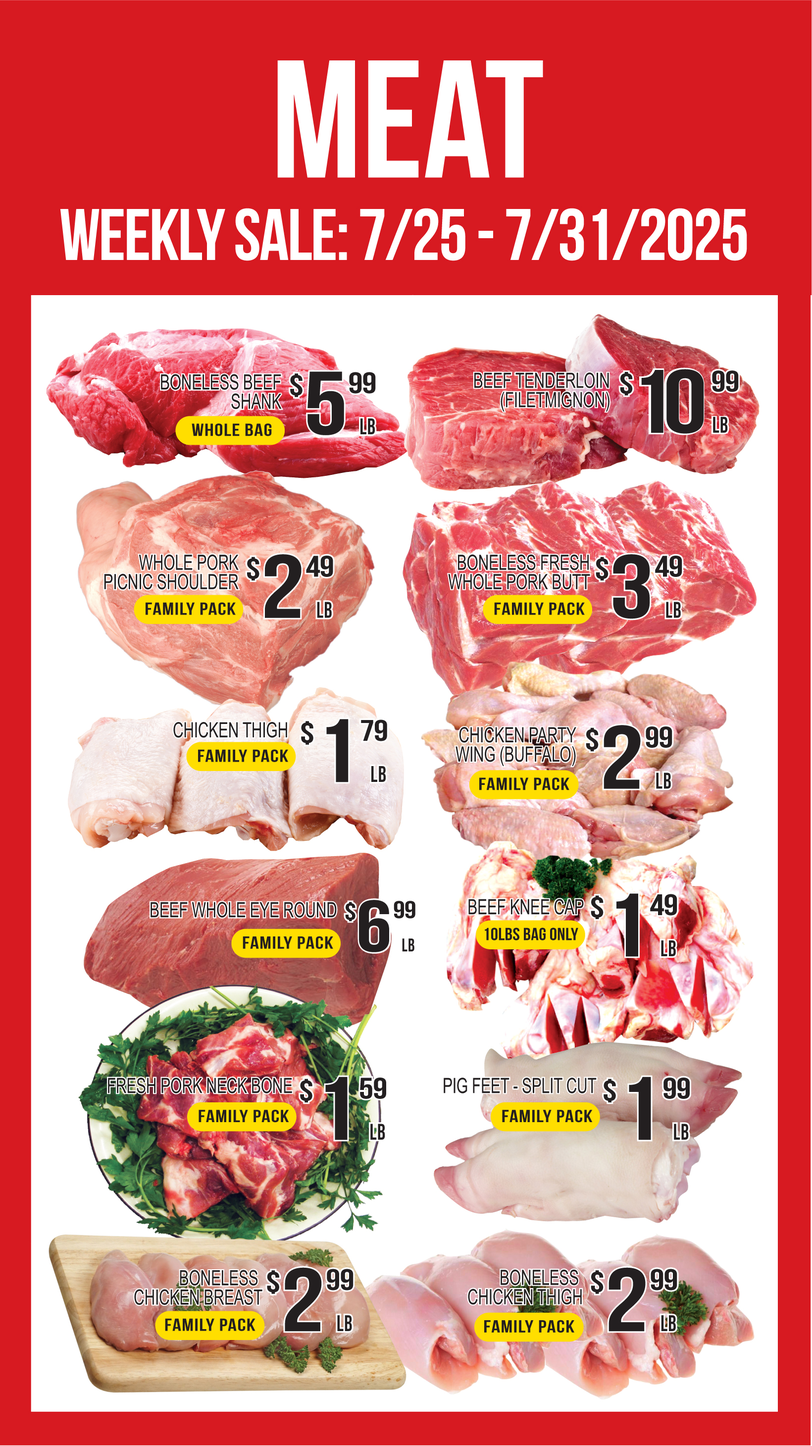
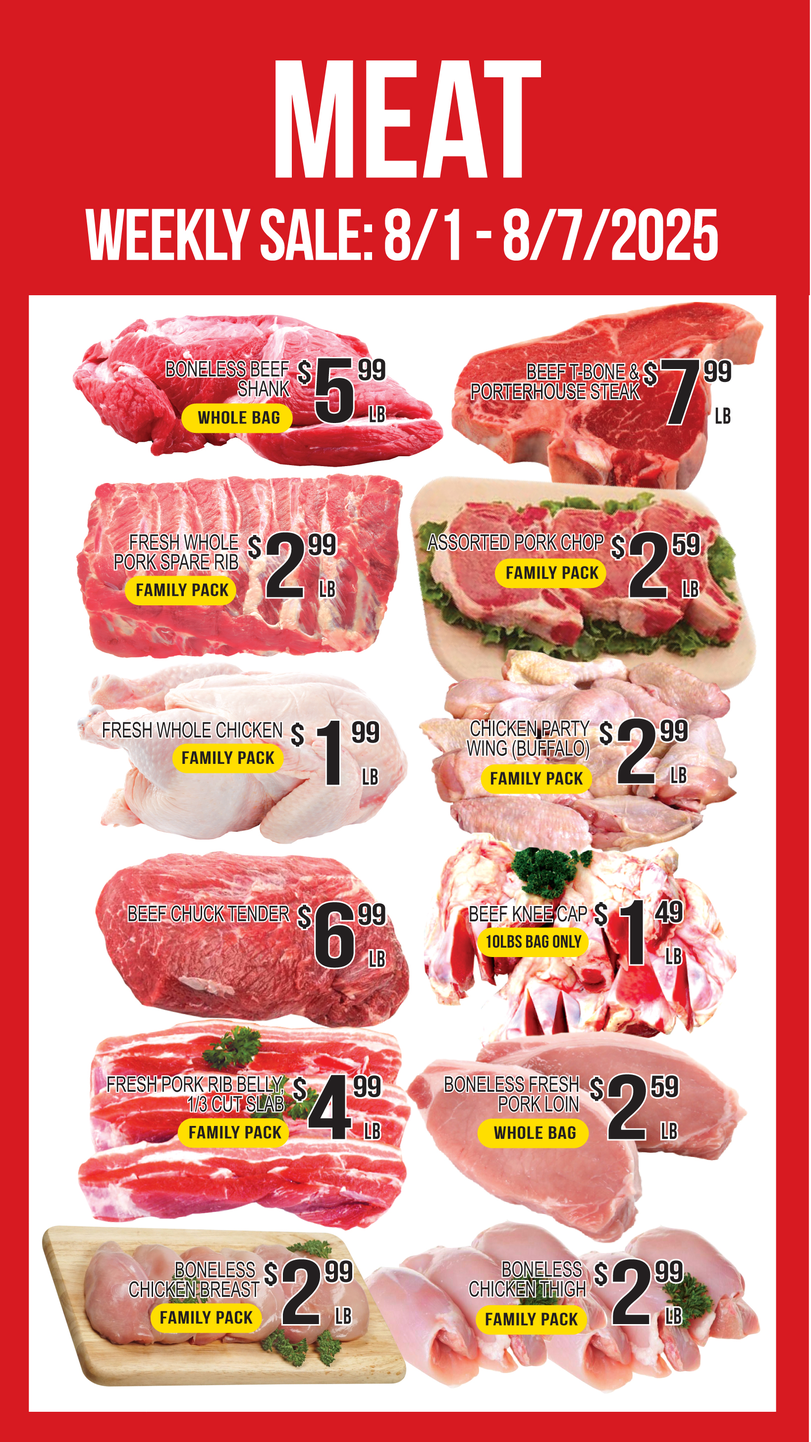
weekly

diff --git a/index.html b/index.html
@@ -67,16 +67,16 @@
           <img src="./public/assets/weekly/independence.jpg" class="img-fluid" alt="...">
         </div> -->
         <div class="carousel-item center-carousel active">
-          <img src="./public/assets/weekly/meat.jpg?v=0725" class="img-fluid" alt="...">
+          <img src="./public/assets/weekly/meat.jpg?v=00801" class="img-fluid" alt="...">
         </div>
         <div class="carousel-item center-carousel">
-          <img src="./public/assets/weekly/produce.jpg?v=0725" class="img-fluid" alt="...">
+          <img src="./public/assets/weekly/produce.jpg?v=00801" class="img-fluid" alt="...">
         </div>
         <div class="carousel-item center-carousel">
-          <img src="./public/assets/weekly/seafood.jpg?v=0725" class="img-fluid" alt="...">
+          <img src="./public/assets/weekly/seafood.jpg?v=00801" class="img-fluid" alt="...">
         </div>
         <div class="carousel-item center-carousel">
-          <img src="./public/assets/weekly/grocery.jpg?v=0725" class="img-fluid" alt="...">
+          <img src="./public/assets/weekly/grocery.jpg?v=00801" class="img-fluid" alt="...">
         </div>
         <!-- <div class="carousel-item center-carousel">
           <img src="./public/assets/sale/grocery2.jpg?v=070623" class="img-fluid" alt="...">

diff --git a/deals.html b/deals.html
@@ -50,15 +50,15 @@
     <div class="row deal">
 
       <h2>English</h2>
-      <img class="img-fluid" src="./public/assets/weekly/english.jpg?v=0725">
+      <img class="img-fluid" src="./public/assets/weekly/english.jpg?v=0801">
 
       <br><br>
       <h2>Hispanic</h2>
-      <img class="img-fluid" src="./public/assets/weekly/hispanic.jpg?v=0725">
+      <img class="img-fluid" src="./public/assets/weekly/hispanic.jpg?v=0801">
 
       <br>
       <h2>Korean</h2>
-      <img class="img-fluid" src="./public/assets/weekly/korean.jpg?v=0725">
+      <img class="img-fluid" src="./public/assets/weekly/korean.jpg?v=0801">
       <br>
       <br>
     </div>
